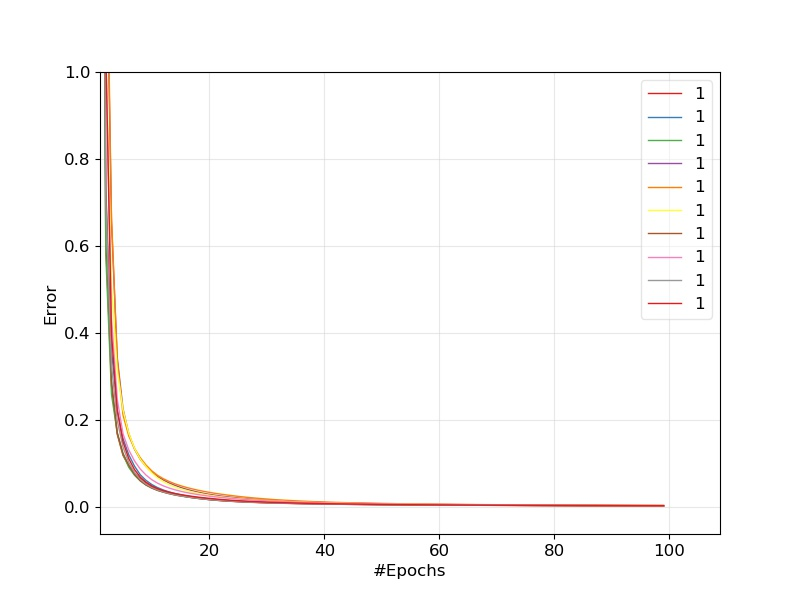
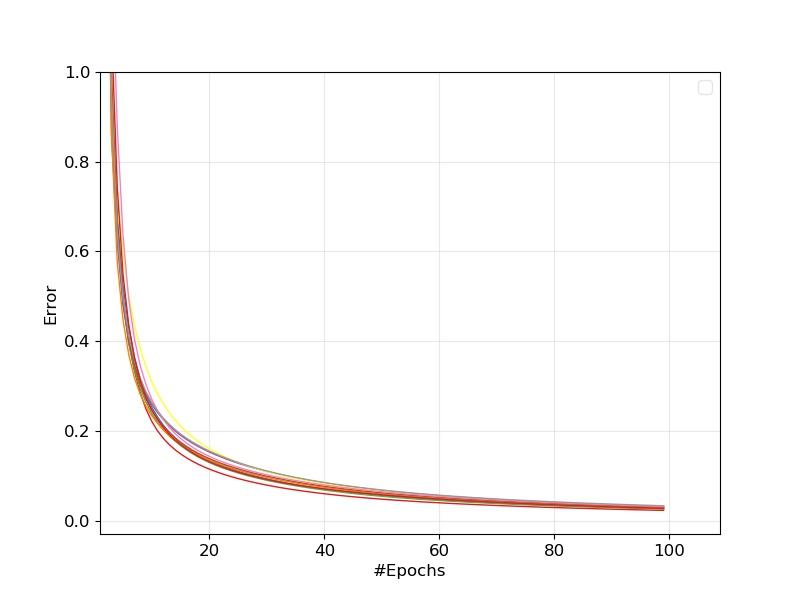
rename lecture 3 and minor fixes

diff --git a/lecture3-experimentation.tex b/lecture3-experimentation.tex
@@ -3,7 +3,7 @@
 \centering
 \huge
 Lecture 3:\\
-Experimentation and Visualization
+Evaluation and Visualization
 \end{frame}
 %----------------------------------------------------------------------
 %----------------------------------------------------------------------
@@ -14,7 +14,7 @@ Experimentation and Visualization
 	\item[$\to$] Background
 	\begin{itemize}
 		\item Design spaces in ML
-		\item[$\to$] Experimentation and visualization
+		\item[$\to$] Evaluation and visualization
 	\end{itemize}
 	\item Hyperparameter optimization (HPO)
 	\begin{itemize}
@@ -213,7 +213,7 @@ For the following slides, we have used the following setup:
 	
 \begin{itemize}
 	\item already perfect training score
-	\item generalization nevertheless not perfect
+	\item generalization nevertheless noisy
 \end{itemize}
 	
 \end{columns}
@@ -232,13 +232,16 @@ For the following slides, we have used the following setup:
 \begin{frame}[c]{eCDF: Distribution of Performance}
 
 \centering
-\includegraphics[width=0.7\textwidth]{scripts/mlp12_test_ecdf.jpg}
+\includegraphics[width=0.6\textwidth]{scripts/mlp12_test_ecdf.jpg}
 
+\begin{flushleft}
+How to compute an empirical CDF:
 \begin{enumerate}
 	\item X: sorted error scores
 	\item Y: $[1\ldots\#\text{points}] / \#\text{points}$
 	\item step\_function(X,Y)
 \end{enumerate}
+\end{flushleft}
 
 \end{frame}
 %----------------------------------------------------------------------
@@ -269,12 +272,15 @@ For the following slides, we have used the following setup:
 	\begin{enumerate}
 	   \item A priori, it is unknown how long a user will run an AutoML system
 	   \item Some systems perform well for small budgets and some others need more time before performing well
+	   \begin{itemize}
+	   	\item BO-based systems often perform as good as\\ random search in the beginning, but perform very well later on
+	   \end{itemize}
     \end{enumerate}
 	\pause
 	\item[$\leadsto$] AutoML systems should have a good anytime performance
 	\pause
 	\medskip
-	\item Recommendation: plot performance (e.g., accuracy) over time
+	\item Recommendation: plot performance (e.g., error) over time
 	\begin{itemize}
 		\item Similar to learning curves of DNNs 
 	\end{itemize} 
@@ -287,15 +293,15 @@ For the following slides, we have used the following setup:
 \begin{frame}[c]{Aggregated AutoML Systems over Time}
 
 \centering
-\includegraphics[width=0.6\textwidth]{images/MLPOnMnist_tFalse.png}
+\includegraphics[width=0.5\textwidth]{images/MLPOnMnist_tFalse.png}
 
 \begin{itemize}
 	\item Different HPO systems minimizing the error of an MLP on MNIST
 	\item How to do it:
 	\begin{itemize}
-		\item Run each systems several times and log its current incumbent always
-		\item Plot mean and stdev for each system
-		\item Use step functions, because linear interpolation would be too optimistic
+		\item Run each systems several times and always log its current incumbent 
+		\item Plot mean and stdev for each system after each incumbent update
+		\item Use step functions, because linear interpolation would be\\ too optimistic
 	\end{itemize}
 \end{itemize}
 
@@ -306,7 +312,7 @@ For the following slides, we have used the following setup:
 
 \begin{itemize}
 	\item An AutoML system should not only perform well on a single dataset but on many datasets
-	\item To summarize and compare the performnance accross a set of datasets,
+	\item To summarize and compare the performance across a set of datasets,
 	we can plot the performance over time and across datasets
 	\pause
 	\item Ways to do it:
@@ -333,10 +339,16 @@ For the following slides, we have used the following setup:
 
 
 \centering
-\includegraphics[width=0.6\textwidth]{images/rankings_over_time.png}
+\includegraphics[width=0.5\textwidth]{images/rankings_over_time.png}
 
 \begin{itemize}
-	\item Remark: x-axis should be on log-scale
+	\item Remarks:
+	\begin{itemize}
+		\item x-axis should be on log-scale
+		\item uncertainties (shaded areas) can be obtained via bootstrap sampling
+	\end{itemize}
+    \pause
+    \smallskip
 	\item Ranks avoid the problem of different scales
 	\item Problem: we don't know whether a better ranking relates to a substantial improvement of the actual cost metric
 \end{itemize}
@@ -434,7 +446,6 @@ For the following slides, we have used the following setup:
 \begin{itemize}
 	\item Alternative hypothesis should be your research hypothesis
 \end{itemize}
-\pause
 \end{enumerate}	
 
 \end{frame}
@@ -671,7 +682,7 @@ $\mu \neq \mu_0$
 \item E.g., $Z$-test and popular $t$-test assume \alert{normality}
 \item Our data is often far from normally-distributed
 \begin{itemize}
-\item[$\leadsto$] E.g., exponential runtime distributions of SLS solvers for SAT
+\item[$\leadsto$] E.g., exponential runtime distributions of local search optimizers
 \item[$\leadsto$] E.g., distribution of fitting a neural network\\ with different random seeds is not well studied
 \end{itemize}
 \end{itemize}

diff --git a/scripts/plot_learning_curves.py b/scripts/plot_learning_curves.py
@@ -20,8 +20,8 @@ fig.savefig("one_learning_curve.jpg")
 
 
 fig = plot_optimization_trace_mult_exp(time_list=[list(range(1,100)) for _ in range(0,10)],
-                                 performance_list=[[mlp2_lcurve[i,:]] for i in range(0,10)],
-                                 name_list=["1"]*10,
+                                 performance_list=[[mlp1_lcurve[i,:]] for i in range(0,10)],
+                                 name_list=[""]*10,
                                  ylabel="Error",
                                  xlabel="#Epochs",
                                 properties = {'markersize': 0,
@@ -91,7 +91,6 @@ ax1.step(mlp2_test_sorted,y)
 fig.savefig("mlp12_test_ecdf.jpg")
 
 # Boxplot
-
 fig, ax1 = plt.subplots()
 ax1.boxplot([1 - mlp1_testscores, 1 - mlp2_testscores])
 ax1.set_ylabel('Test Error')

diff --git a/scripts/mlp_mini.py b/scripts/mlp_mini.py
@@ -78,7 +78,16 @@ print(cs)
 #def_conf = cs.get_default_configuration()
 #eval_mlp(def_conf, seed=1)
 
-#if True:
+if True:
+    results = []
+    for c in cs.sample_configuration(100):
+        test_accs = []
+        for i in range(3):
+            t, a = eval_mlp(c, seed=1)
+            test_accs.append(1 - t)
+        test_accs = np.mean(test_accs)
+        results.append(test_accs)
+    np.savetxt(results, "hundred_configs_test_acc.txt")
 
 
 if False:

diff --git a/lecture2-design_spaces.tex b/lecture2-design_spaces.tex
@@ -14,7 +14,7 @@ Design Spaces in Machine Learning
 	\item[$\to$] Background
 	\begin{itemize}
 		\item[$\to$] Design spaces in ML
-		\item Experimentation and visualization
+		\item Evaluation and visualization
 	\end{itemize}
 	\item Hyperparameter optimization (HPO)
 	\begin{itemize}

diff --git a/lecture1-introduction.tex b/lecture1-introduction.tex
@@ -326,7 +326,7 @@ You will be able to \ldots
 	\item Background
 	\begin{itemize}
 		\item Design spaces in ML
-		\item Experimentation and visualization
+		\item Evaluation and visualization
 	\end{itemize}
 	\item Hyperparameter optimization (HPO)
 	\begin{itemize}
